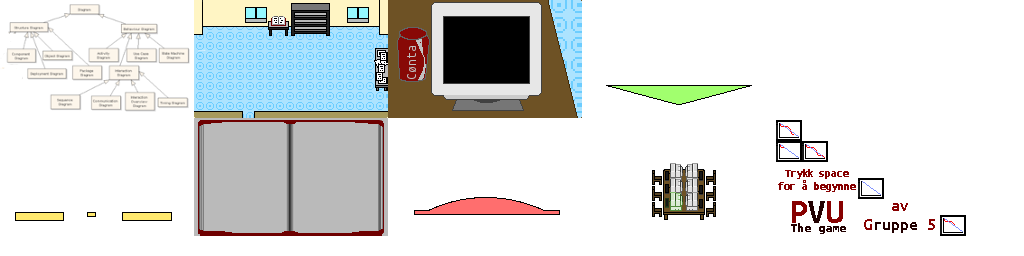
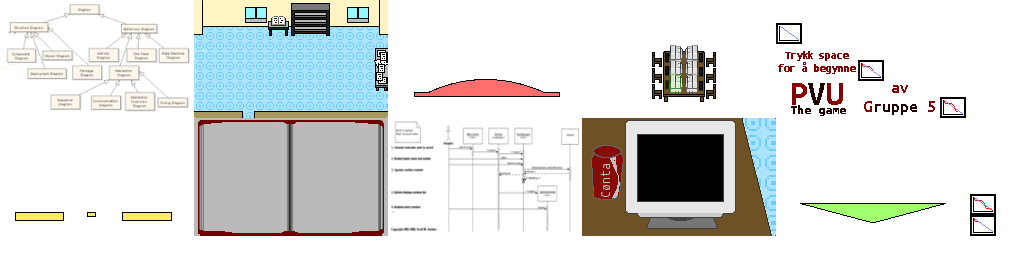
Added background for SequenceJumper, deleted some unecessary files

diff --git a/PVUgame/src/no/hist/gruppe5/pvu/Assets.java b/PVUgame/src/no/hist/gruppe5/pvu/Assets.java
@@ -74,7 +74,7 @@ public class Assets {
     public static TextureRegion ubHard;
     // BOOK SCREEN
     public static TextureRegion bookBook;
-    // BORDER
+    // SeqJumper
     public static TextureRegion borderBorder;
     public static TextureRegion seqHead;
     public static TextureRegion seqBackground;
@@ -139,23 +139,22 @@ public class Assets {
         ubMedium = msAtlas.findRegion("ub_medium");
         ubHard = msAtlas.findRegion("ub_hard");
 
-
         // BOOK
         bookBook = msAtlas.findRegion("book");
 
-
-        borderBorder = borderAtlas.findRegion("BorderChooser");
-
-
-        // Simple "loading" hack, always put last
-        IS_LOADED = true;
+        // SeqJumper
+        seqBackground = msAtlas.findRegion("sequencebg");
 
         TextureAtlas seqAtlas = new TextureAtlas(Gdx.files.internal("data/seqjumper.atlas"));
         seqHead = seqAtlas.findRegion("head");
         seqLine = seqAtlas.findRegion("line");
-        seqBackground = seqAtlas.findRegion("white");
         seqBall = seqAtlas.findRegion("ball");
         seqBox = seqAtlas.findRegion("box");
+
+        borderBorder = borderAtlas.findRegion("BorderChooser");
+
+        // Simple "loading" hack, always put last
+        IS_LOADED = true;
     }
 
     public static TextureRegion getAvatarRegion(int region) {

diff --git a/PVUgame/src/no/hist/gruppe5/pvu/seqjumper/JumperScreen.java b/PVUgame/src/no/hist/gruppe5/pvu/seqjumper/JumperScreen.java
@@ -69,7 +69,7 @@ public class JumperScreen extends GameScreen {
     public JumperScreen(PVU game) {
         super(game);
         
-        mBackground = new ScrollingBackground(Assets.msBackground);
+        mBackground = new ScrollingBackground(Assets.seqBackground);
 
         mGui = new GUI(PVU.SCREEN_WIDTH, PVU.SCREEN_HEIGHT, true);
 
